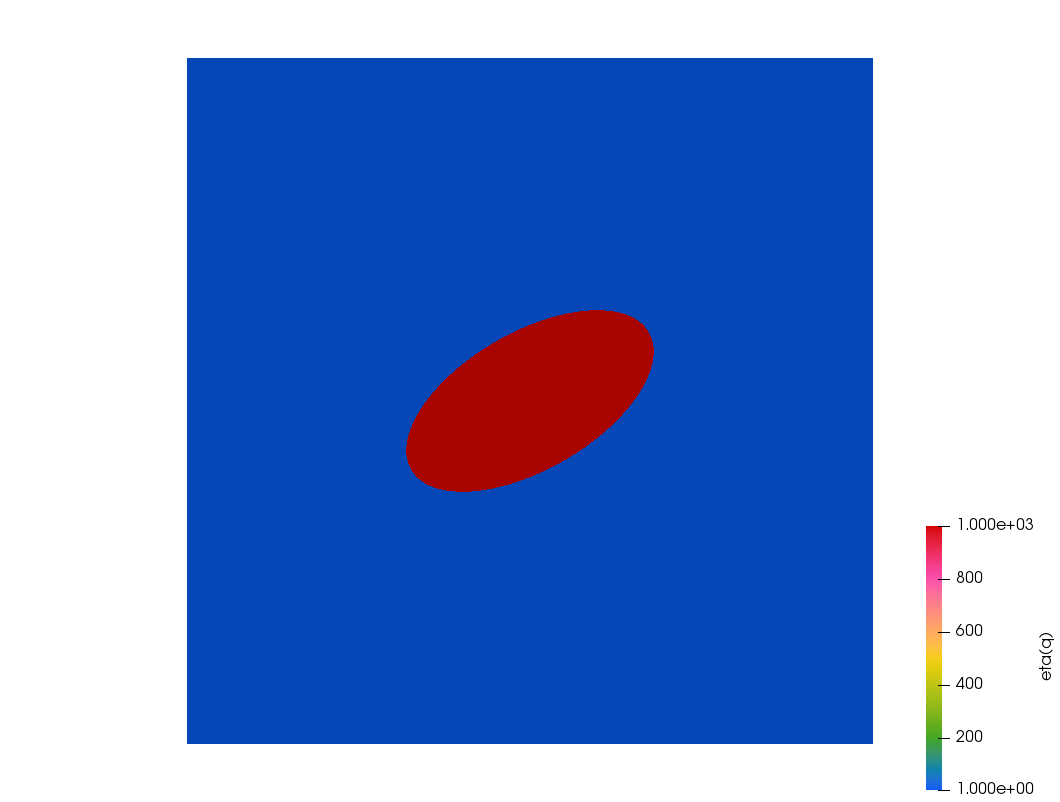
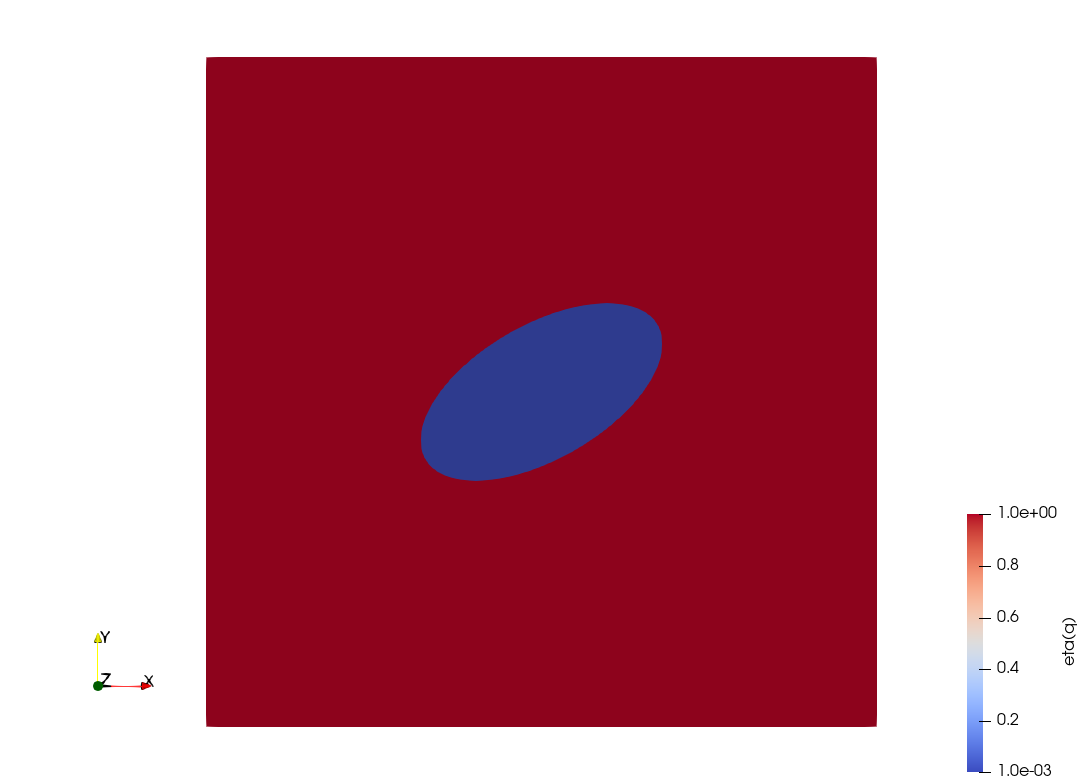
f142updt

diff --git a/python_codes/fieldstone_142/stone.py b/python_codes/fieldstone_142/stone.py
@@ -84,7 +84,7 @@ tol=1e-6
 # case 1: rectangle (fig. 6)
 # case 2: elliptical inclusion (fig. 8)
 
-case=1
+case=2
 
 v_bc=0.5
 
@@ -314,7 +314,7 @@ print("compute element center coords: %.3f s" % (timing.time() - start))
 #------------------------------------------------------------------------------
 start = timing.time()
 
-inclusion=np.zeros(nel,dtype=np.bool)
+inclusion=np.zeros(nel,dtype=bool)
 
 for iel in range(0,nel):
     inclusion[iel]=is_in_inclusion(case,xc[iel],yc[iel],a_incl,b_incl,phi_incl)
@@ -357,7 +357,7 @@ print("compute elements areas: %.3f s" % (timing.time() - start))
 #------------------------------------------------------------------------------
 start = timing.time()
 
-bc_fix=np.zeros(NfemV,dtype=np.bool)
+bc_fix=np.zeros(NfemV,dtype=bool)
 bc_val=np.zeros(NfemV,dtype=np.float64)
 
 if bc_type=='pureshear':
